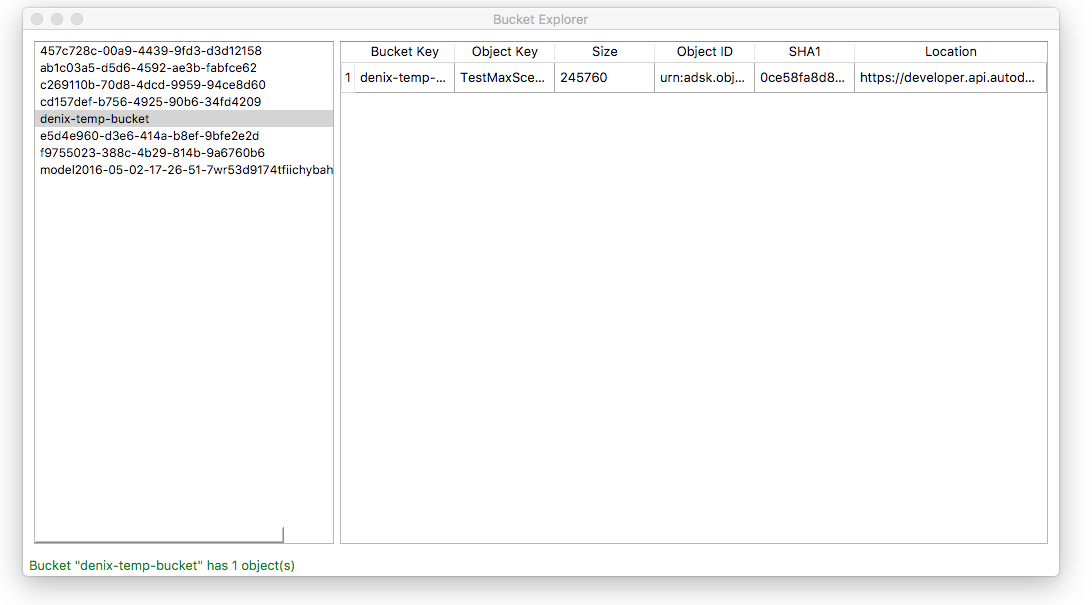
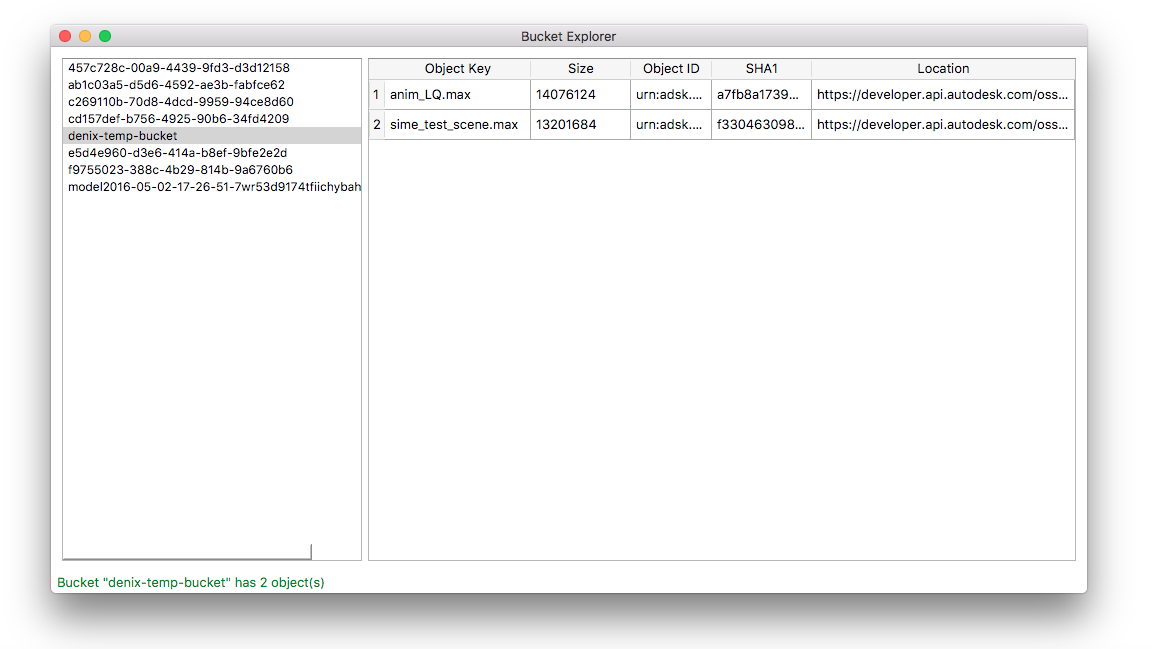
removed in Bucket sample the redundant info.

Changed region(s): [[0.0, 0.0, 0.9963, 0.9818]]

diff --git a/samples/BucketExplorer/mainwindow.cpp b/samples/BucketExplorer/mainwindow.cpp
@@ -66,8 +66,8 @@ void MainWindow::setupKeysAndAPIs()
 void MainWindow::setupObjectTable() const
 {
 	m_object_list->clear();
-	m_object_list->setColumnCount(6);
-	m_object_list->setHorizontalHeaderLabels({ "Bucket Key", "Object Key", "Size", "Object ID", "SHA1", "Location" });
+    m_object_list->setColumnCount(5);
+    m_object_list->setHorizontalHeaderLabels({ "Object Key", "Size", "Object ID", "SHA1", "Location" });
 	ui->objectView->setModel(m_object_list);
 }
 
@@ -108,7 +108,7 @@ void MainWindow::selectionChanged(const QModelIndex& index) const
 //		if (!item_description.isEmpty())
 		{
 			int row_count = m_object_list->rowCount();
-			m_object_list->insertRow(m_object_list->rowCount(), item_description);
+            m_object_list->insertRow(row_count, item_description);
 //			m_object_list->appendRow(item_description);
 		}
 		
@@ -129,8 +129,7 @@ void MainWindow::updateObjectTable(QList<Forge::BucketObject*> object_list, QStr
 		QList<QList<QStandardItem*>> items;
 		foreach(Forge::BucketObject* object, object_list)
 		{
-			items.append({	new QStandardItem(object->get_bucket_key()),
-							new QStandardItem(object->get_object_key()),
+            items.append({	new QStandardItem(object->get_object_key()),
 							new QStandardItem(QString::number(object->get_size())),
 							new QStandardItem(object->get_object_id()),
 							new QStandardItem(object->get_sha1()),
